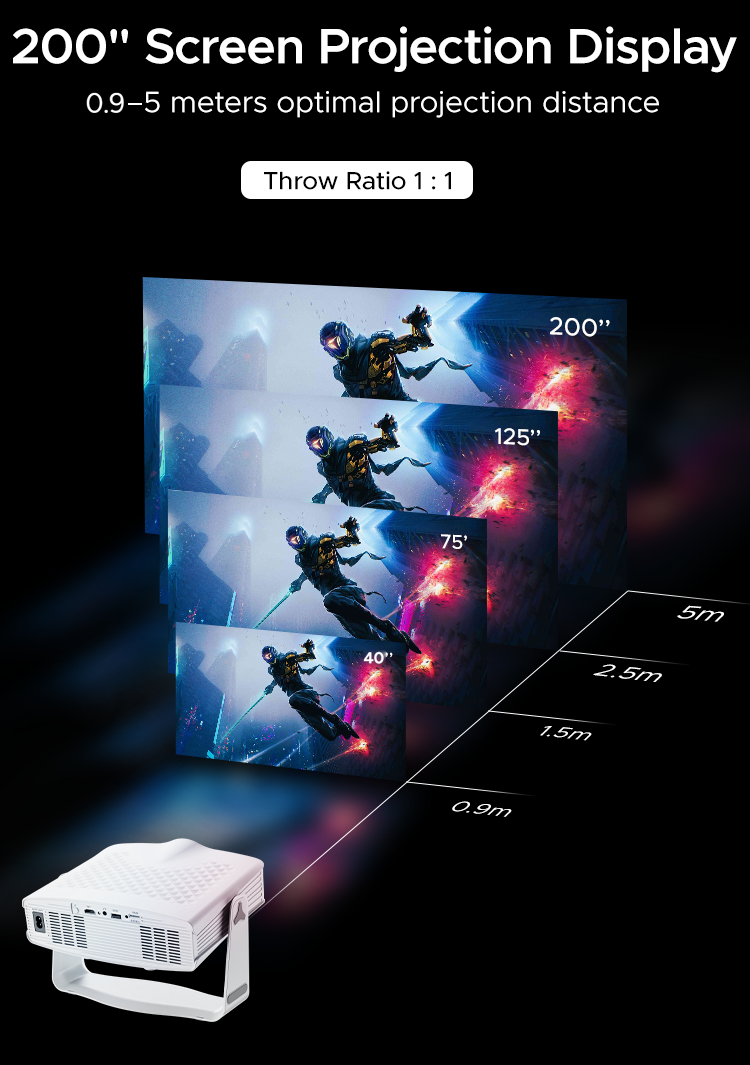
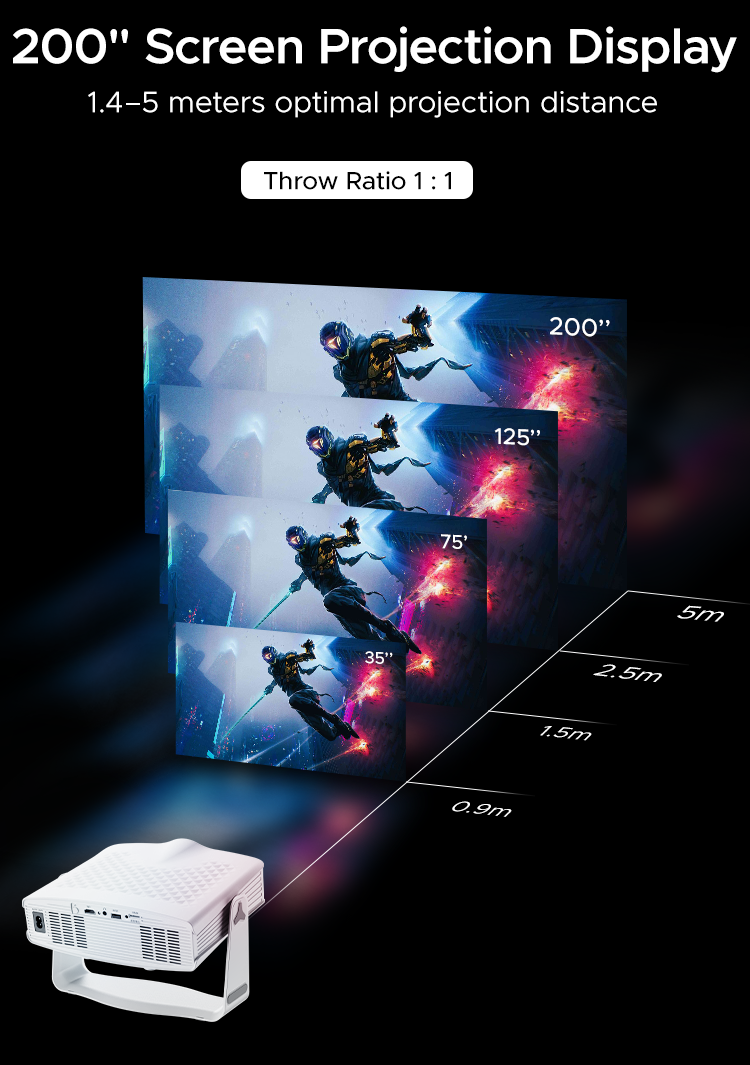
Revert the pixel edits on the spec sheet and screen-size boards
02-spec-sheet.png and 09-screen-size.png are restored byte-identical to
launch-site. Verified both ways: the git object hashes match
(63c7fb2c… and 7b43f1f4…) and so do the SHA-256 sums, at 684,791 and
563,411 bytes — the supplied files, not a re-encode of them.

So the artwork states "35-200 Inch" and "0.9M-5M" on the spec sheet, and
"1.4-5 meters" with a 35" smallest screen on the screen-size card, exactly
as supplied.

TechSpecs.jsx goes back to launch-site's wording for both places that
described the edited figure: the spec board's alt and the header comment now
say 35-200" again. The 09-screen-size alts needed no change — both already
described the original ("a 35-inch picture at 0.9m", "stepping from 35 to 75
to 125 to 200 inches") and were never touched.

KEPT, deliberately, as asked: 07-latency.png (hash 4f9296c0…, unchanged) and
the 1.3fr/1fr two-board layout. 11-apps-10000.png also keeps its
headline-only edit — only these two files were reverted.

NOTE FOR WHOEVER READS THIS NEXT: the site's own copy still says 40"-200".
SPECS, FULL_SPEC_SHEET and COMPARISON in lib/iriz.js all carry '40" - 200"',
and components/ThrowRange animates 40" to 200". Those predate this branch and
were left alone. The restored board therefore disagrees with the text beside
it on the same page. That is a known, accepted state, not an oversight.

Changed region(s): [[0.1227, 0.062, 0.8893, 0.1239], [0.4907, 0.5887, 0.5213, 0.6197]]

diff --git a/components/TechSpecs.jsx b/components/TechSpecs.jsx
@@ -11,7 +11,7 @@ import { MEDIA } from '@/lib/iriz';
  * render. The two boards below already state every one of those, in the
  * manufacturer's own artwork and in more detail than a three-word tile could:
  * 02-spec-sheet carries native 1080P, 3.5" LTPS LCD, Allwinner H723, auto
- * focus, 0.9-5m, 40-200", and 1:1; 07-latency carries the 0.004s lockup. The
+ * focus, 0.9-5m, 35-200", and 1:1; 07-latency carries the 0.004s lockup. The
  * tiles were the same claims a second time, smaller.
  *
  * `SPECS` in lib/iriz.js is UNTOUCHED — /specs and the comparison table still
@@ -62,7 +62,7 @@ const BOARDS = [
     className: 'board-spec aspect-[750/698] lg:aspect-auto',
     alt:
       'IRIZ specification board: native 1080P (1920×1080) resolution, 3.5-inch LTPS LCD display '
-      + 'technology, Allwinner H723 chipset, auto focus, 0.9m–5m projection distance, 40–200 inch '
+      + 'technology, Allwinner H723 chipset, auto focus, 0.9m–5m projection distance, 35–200 inch '
       + 'projection size, and a 1:1 throw ratio.',
   },
   {
